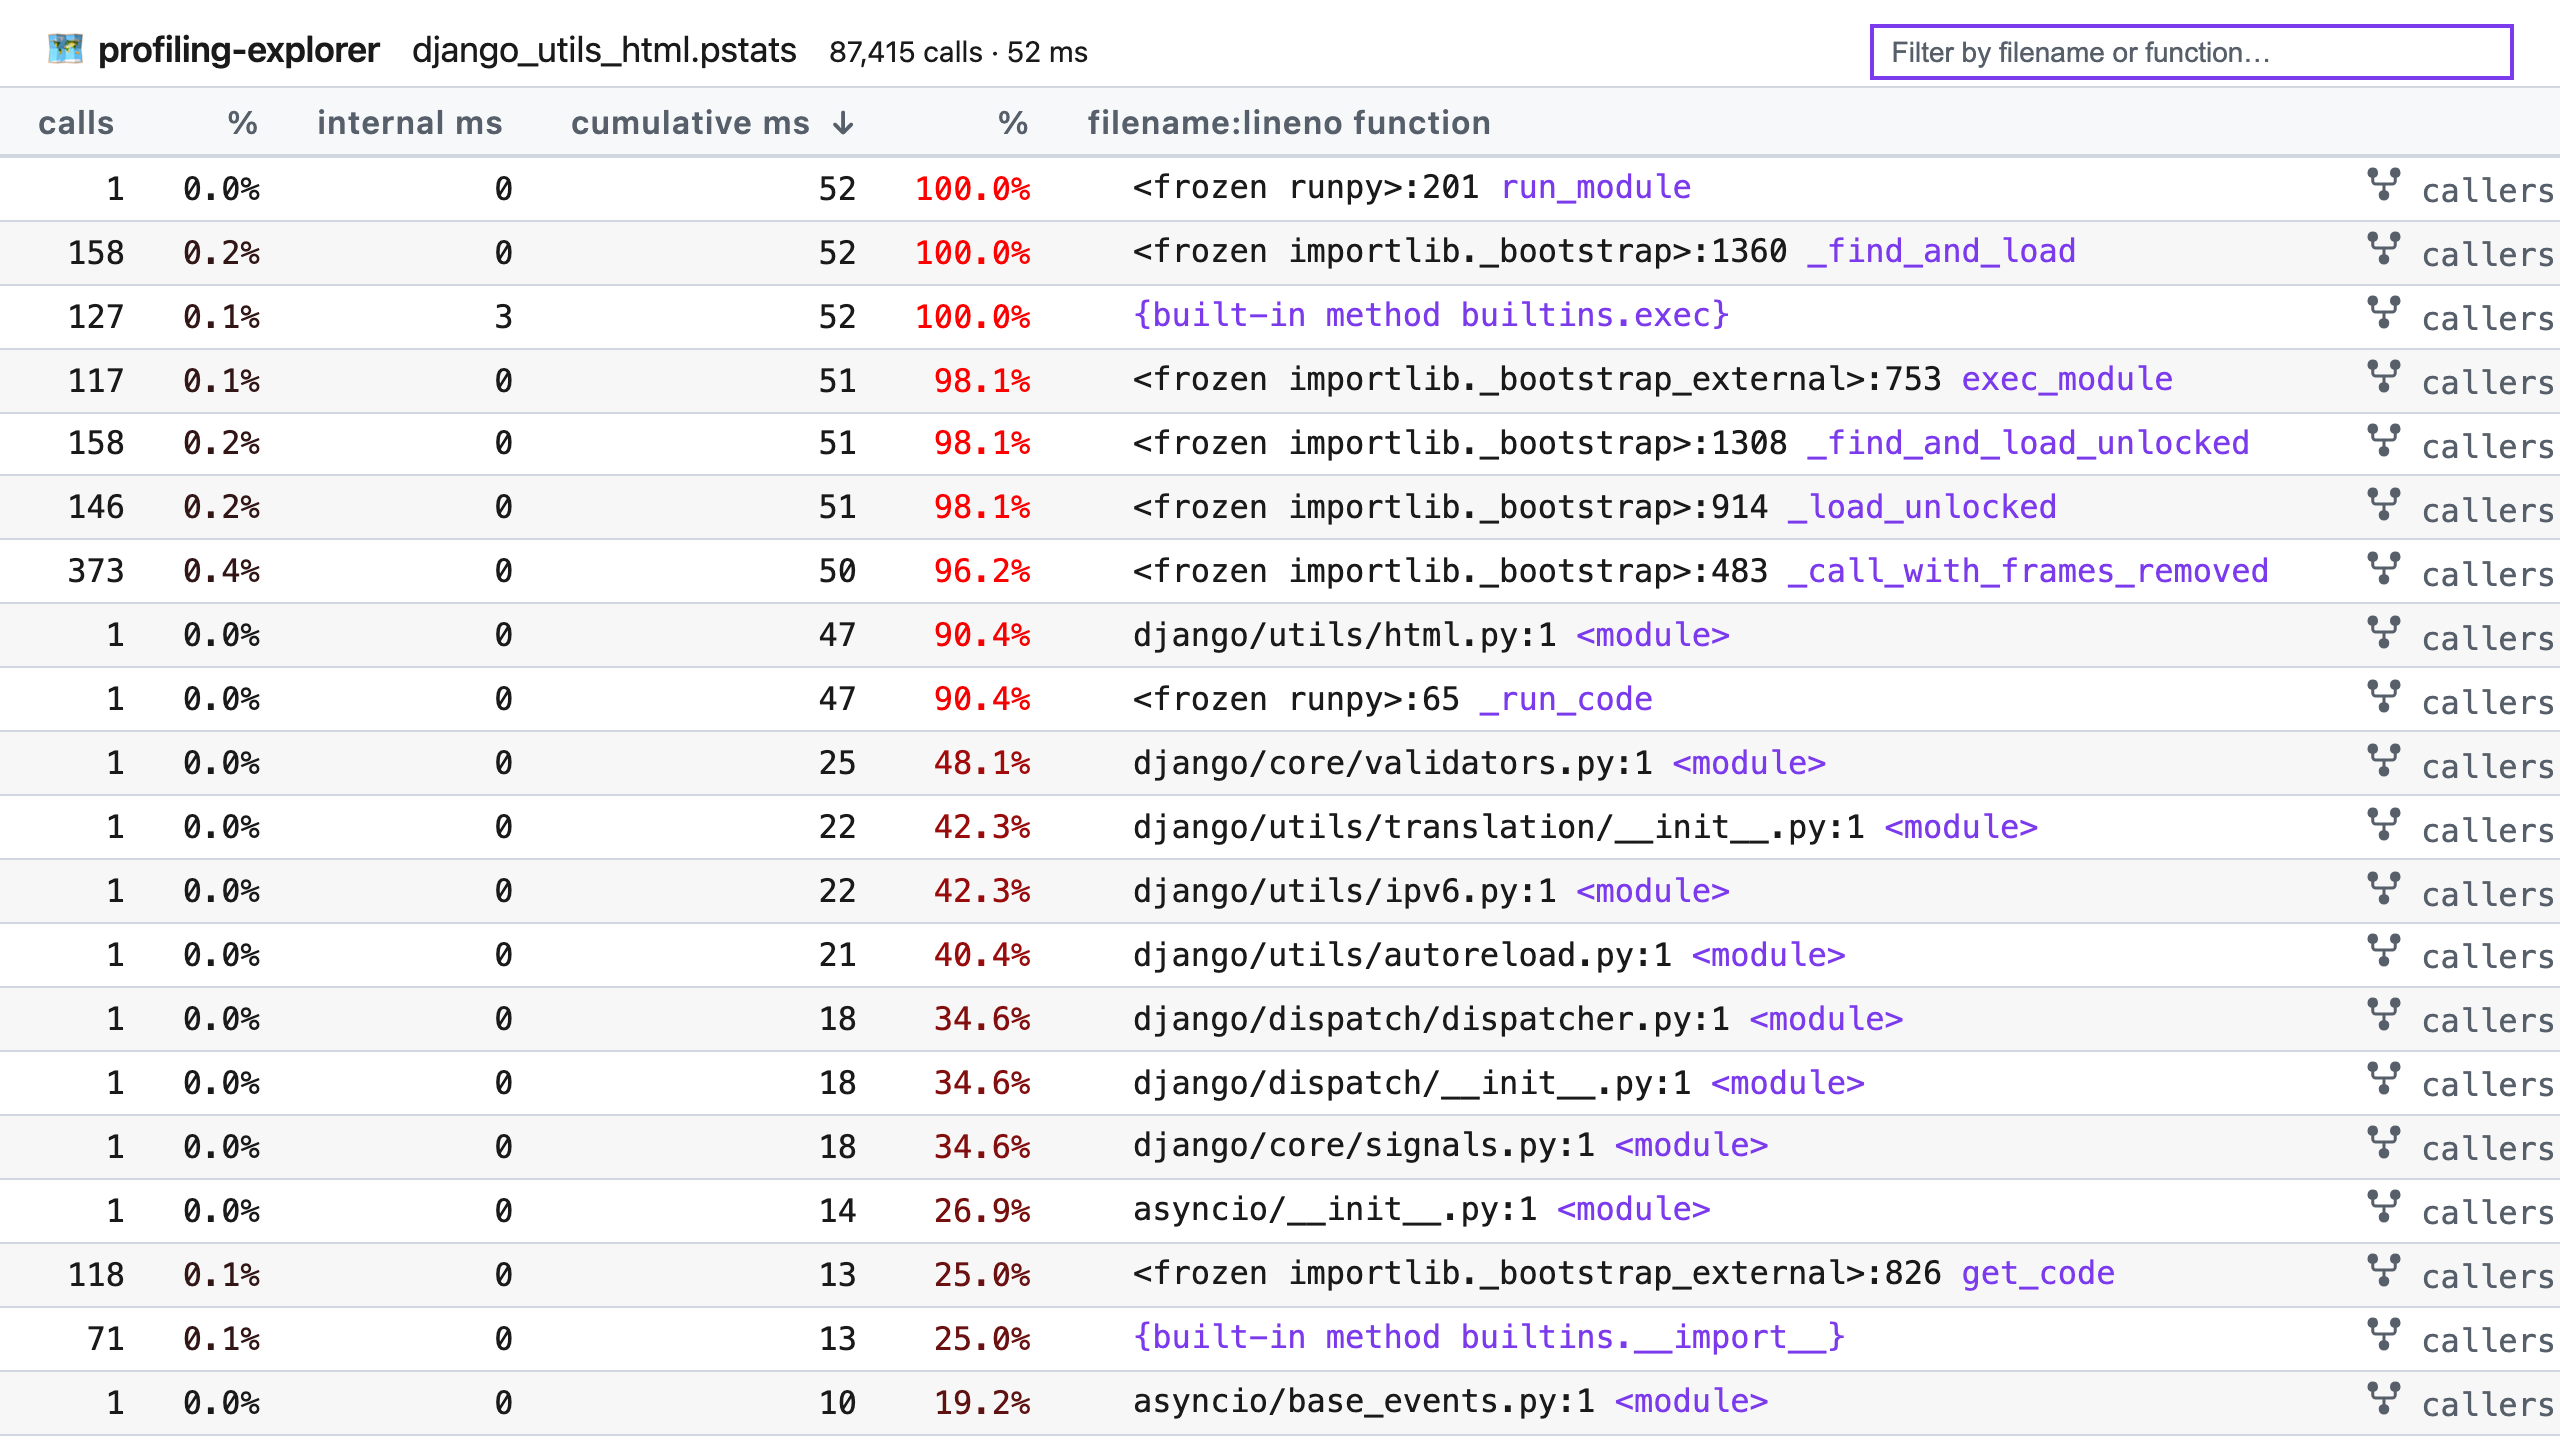
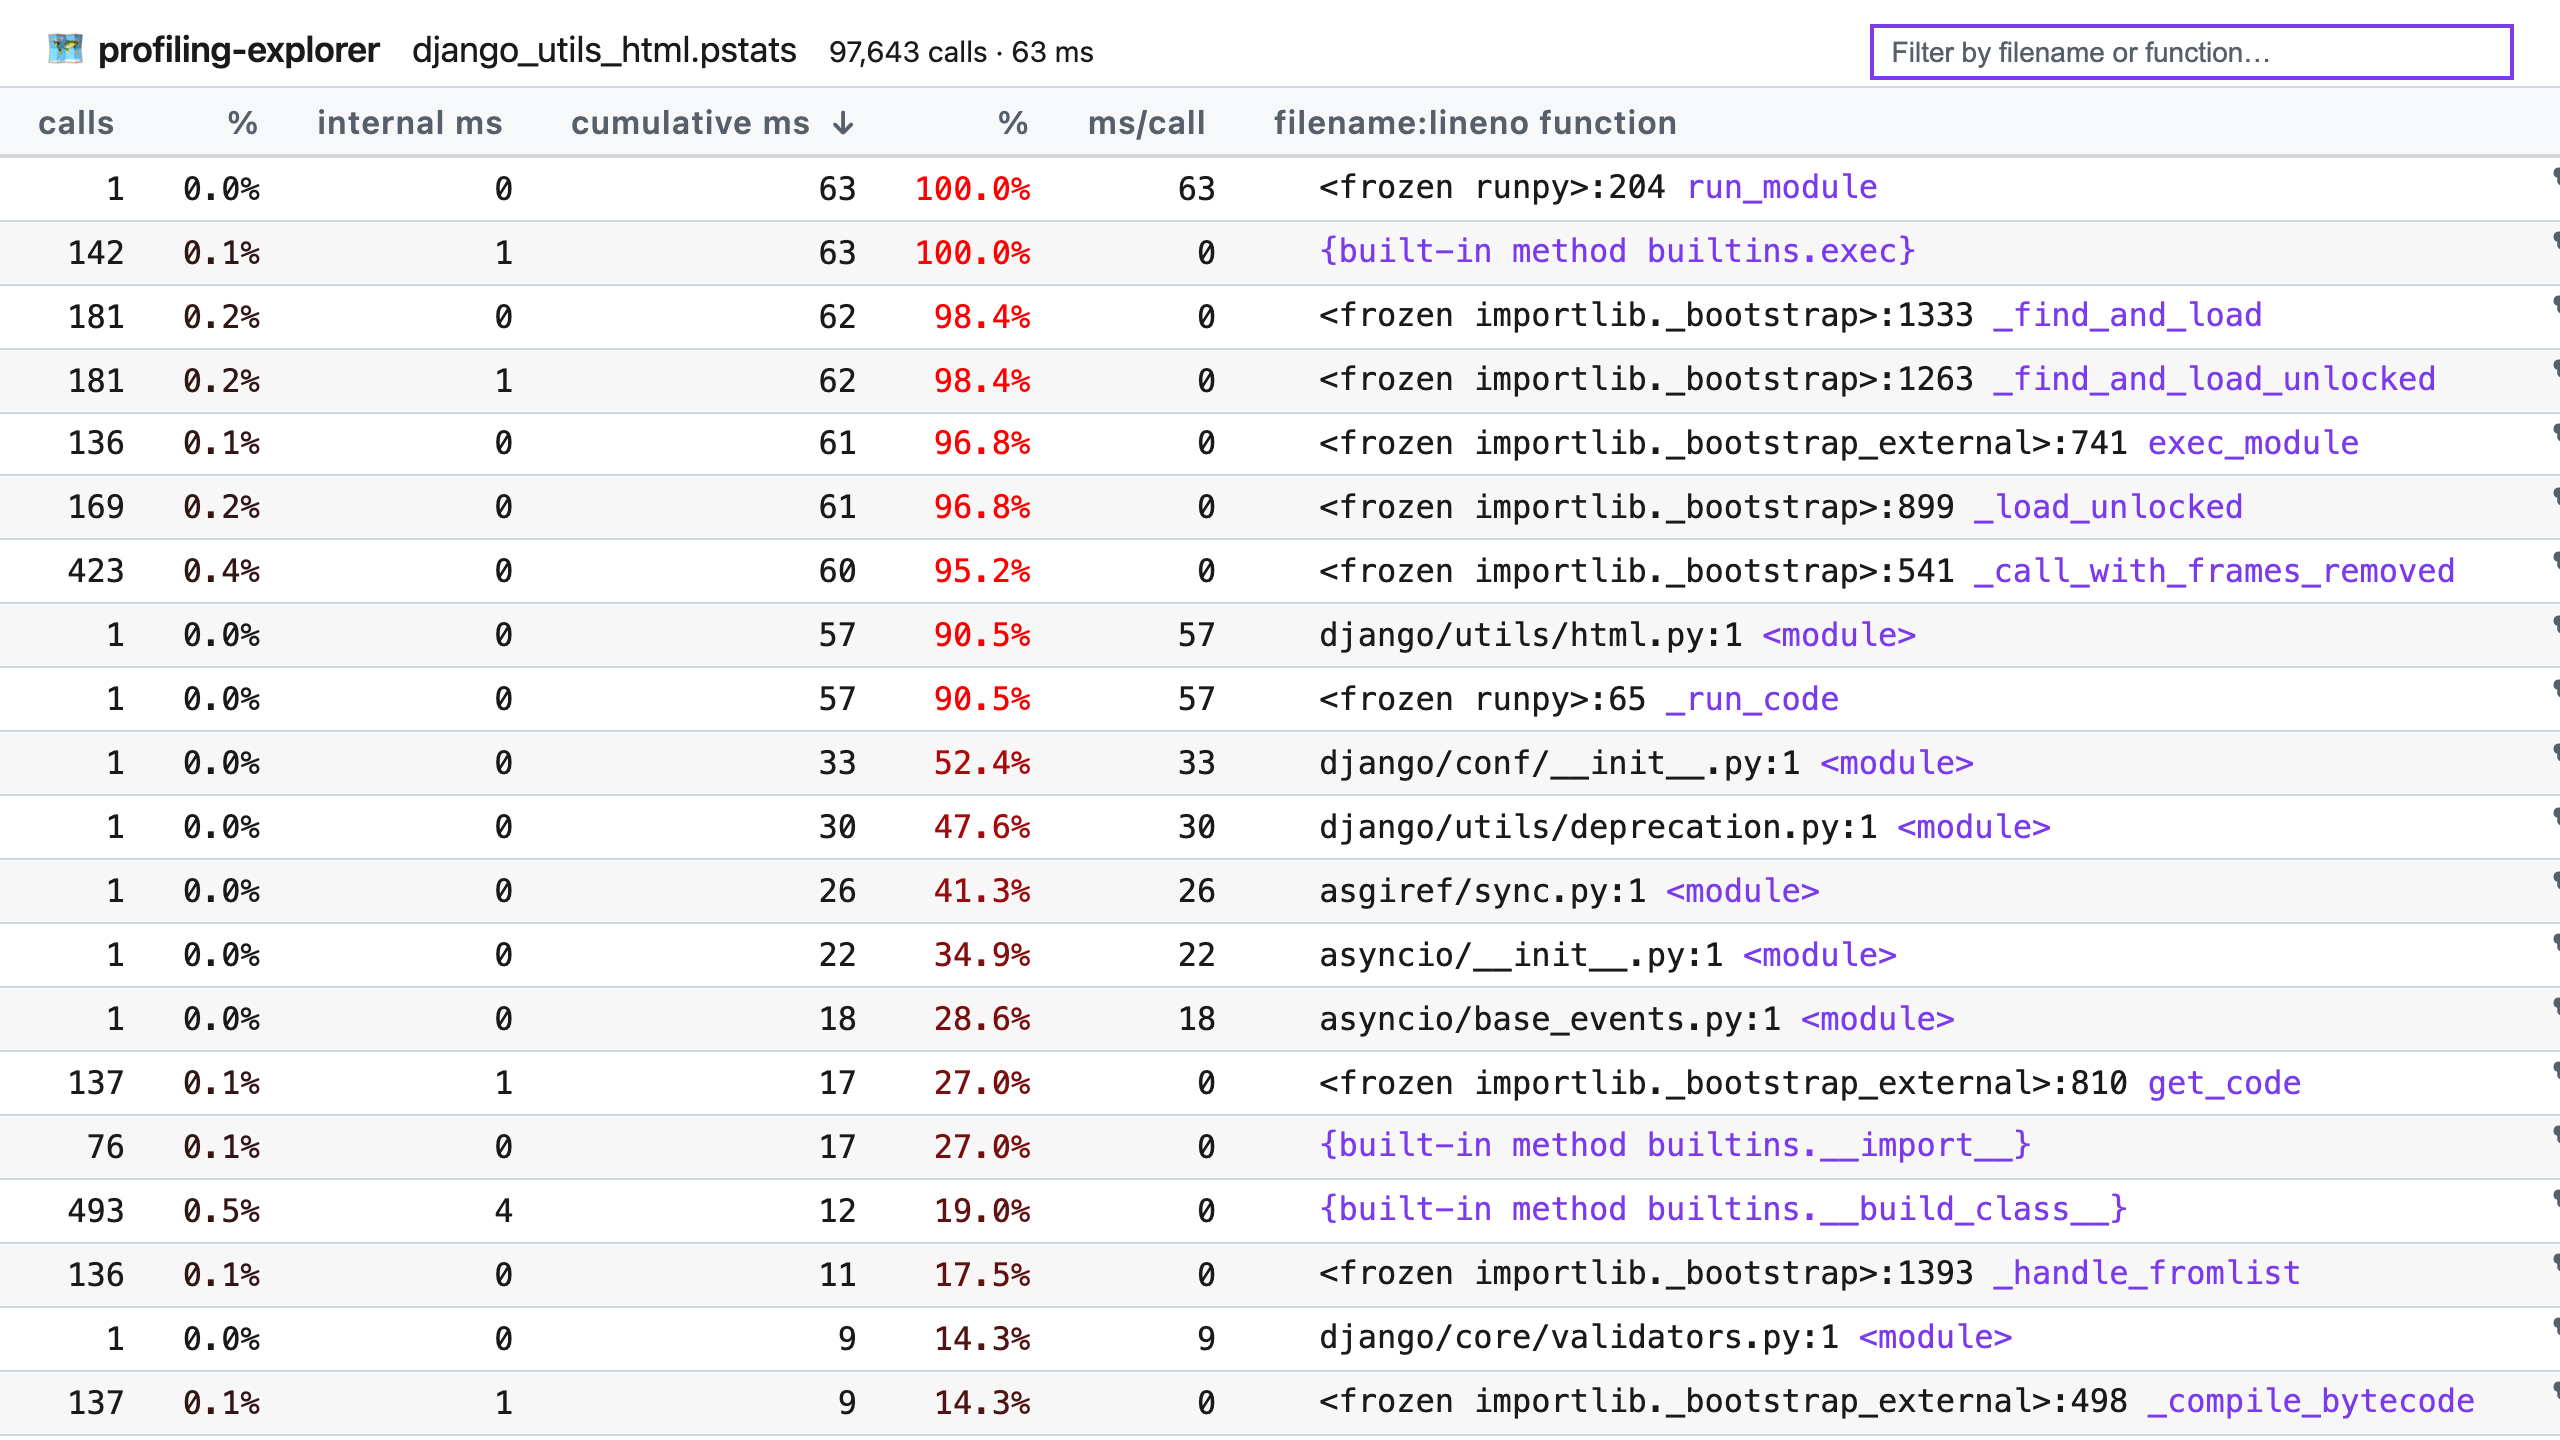
Add ms/call column
Cumulative time divided by number of calls, for both rows and caller/callee edges, sortable like the other columns.
Useful for finding functions that are slow on each call rather than called many times.

diff --git a/src/profiling_explorer/templates/_row.html b/src/profiling_explorer/templates/_row.html
@@ -5,5 +5,6 @@
   <td>{% if stats.internal_ms != None %}{{ stats.internal_ms|intcomma }}{% endif %}
   <td>{{ stats.cumulative_ms|intcomma }}
   <td class="{{ stats.cumulative_ms_pct|pct_class }}">{{ stats.cumulative_ms_pct|pct }}
+  <td>{{ stats.per_call_ms|intcomma }}
   <td class=filename title="{{ row.full_filename }}"><button {% if not row.full_filename %}disabled{% endif %} class=copy-btn data-copy="{{ row.full_filename }}:{{ row.lineno }}" aria-label="Copy"><svg aria-hidden="true" width="18" height="18"><use href="#icon-copy"></use></svg></button>{% if row.filename %}{{ row.filename }}:{{ row.lineno }} {% endif %}<pe-funcname>{{ row.funcname }}</pe-funcname>
   <td>{% if row.id %}<a class=callexs href="/callers/{{ row.id }}/"><svg aria-hidden="true" width="18" height="18"><use href="#icon-tree" transform="rotate(180 9 9)"></use></svg> callers</a> <a class=callexs href="/callees/{{ row.id }}/"><svg aria-hidden="true" width="18" height="18"><use href="#icon-tree"></use></svg> callees</a>{% endif %}

diff --git a/src/profiling_explorer/views.py b/src/profiling_explorer/views.py
@@ -22,6 +22,7 @@ class RowStats:
     internal_ms: int | None
     cumulative_ms: int
     cumulative_ms_pct: float
+    per_call_ms: int
 
 
 @dataclass(slots=True)
@@ -120,6 +121,7 @@ def build_profile(s: pstats.Stats, path: str) -> Profile:
             cumulative_ms_pct=min(100.0, cumulative_ms / total_time_ms * 100)
             if total_time_ms
             else 0.0,
+            per_call_ms=round(cumtime * 1_000 / calls) if calls else 0,
             filename=short_filename,
             full_filename=full_filename,
             lineno=lineno,
@@ -141,6 +143,9 @@ def build_profile(s: pstats.Stats, path: str) -> Profile:
                     min(100.0, callee_cumulative_ms / total_time_ms * 100)
                     if total_time_ms
                     else 0.0
+                ),
+                per_call_ms=(
+                    round(callee_cumtime * 1_000 / callee_calls) if callee_calls else 0
                 ),
             )
             callers_map[row_id][caller_id] = edge
@@ -171,7 +176,7 @@ def _build_edge_rows(
 
 PAGE_SIZE = 200
 
-_VALID_SORT_COLS = {"calls", "internal_ms", "cumulative_ms"}
+_VALID_SORT_COLS = {"calls", "internal_ms", "cumulative_ms", "per_call_ms"}
 
 
 def _render_table(
@@ -251,6 +256,7 @@ def _render_table(
             col_config("calls", "calls"),
             col_config("internal_ms", "internal ms"),
             col_config("cumulative_ms", "cumulative ms"),
+            col_config("per_call_ms", "ms/call"),
         ],
         **extra_context,
     }

diff --git a/tests/test_views.py b/tests/test_views.py
@@ -39,6 +39,15 @@ class IndexTests(SimpleTestCase):
         assert response.status_code == 200
         assert response.context["rows"][0] is views.profile.rows[0]
 
+    def test_sort_per_call_ms(self):
+        response = self.client.get("/", {"sort": "-per_call_ms"})
+        assert response.status_code == 200
+        rows = response.context["rows"]
+        assert [r.per_call_ms for r in rows] == sorted(
+            (r.per_call_ms for r in rows), reverse=True
+        )
+        assert b"ms/call" in response.content
+
 
 class CallersTests(SimpleTestCase):
     def test_callers_view(self):
@@ -91,6 +100,7 @@ class RowTests(SimpleTestCase):
             internal_ms=None,
             cumulative_ms=1,
             cumulative_ms_pct=1.0,
+            per_call_ms=1,
         )
 
         assert views._build_edge_rows({"missing": edge}) == []
@@ -147,6 +157,7 @@ class BuildProfileTests(SimpleTestCase):
         assert profile.total_time_ms == 0
         assert profile.rows[0].calls_pct == 0.0
         assert profile.rows[0].cumulative_ms_pct == 0.0
+        assert profile.rows[0].per_call_ms == 0
         assert profile.callers_map[profile.rows[0].id]
 
 

diff --git a/README.rst b/README.rst
@@ -83,7 +83,8 @@ Then run ``profiling-explorer`` with the generated file:
 The report will open in your web browser, and you can explore the profile data with the interactive interface.
 Features:
 
-* Click the **calls**, **internal ms**, or **cumulative ms** column headers to sort by that column.
+* Click the **calls**, **internal ms**, **cumulative ms**, or **ms/call** column headers to sort by that column.
+  **ms/call** is the cumulative time divided by the number of calls, useful for finding functions that are slow each time they run, rather than those called many times.
 * Use the search box to filter by filename or function name.
   Separate multiple search terms by spaces to match records that contain all terms.
 * Press a keyboard shortcut to focus the search box: ``/``, ``Control+K``, or ``Command+K``.

diff --git a/CHANGELOG.rst b/CHANGELOG.rst
@@ -5,6 +5,8 @@ Changelog
 Unreleased
 ----------
 
+* Add a **ms/call** column, showing cumulative time divided by number of calls.
+
 * Fix the focal row being repeated on every page of long callers and callees lists.
 
 * Fix server error on invalid pagination offsets.
